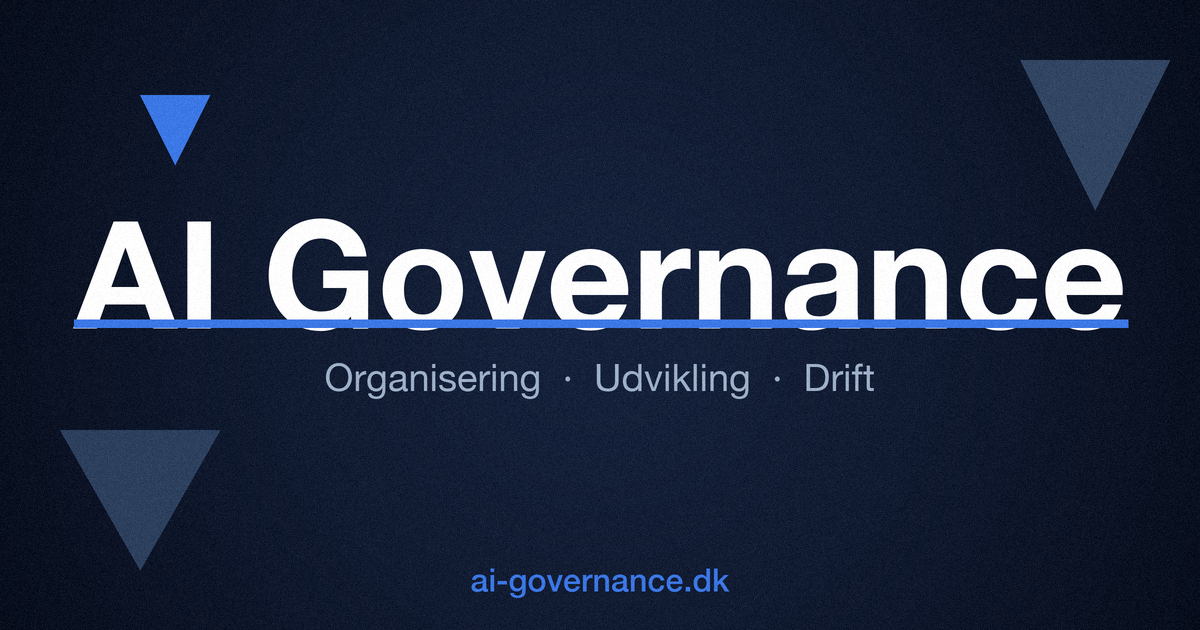
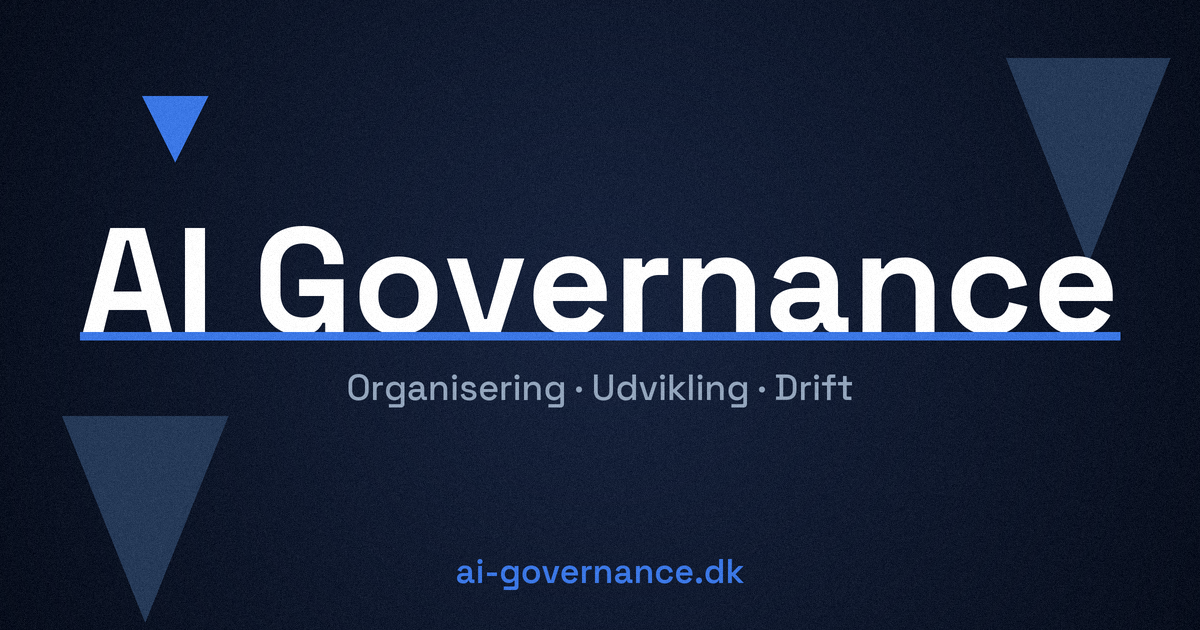
Redesign og-image: consistent Space Grotesk layout, rule no longer covers letters
The governance/sikkerhed og-images had the full-width accent rule cutting
through the title letters — the titles weren't baseline-anchored like
compliance, so the fixed-position rule landed mid-letter. Regenerate all
three from one generator for a consistent, on-brand result:

- Space Grotesk Bold (the site display font), title left-aligned at x=80
  anchored to a fixed baseline → rule sits just under the text on every site
- radial gradient with baked-in luminance dither (JPEG-banding-proof, replaces
  the post-hoc og-dither.py which is now removed)
- centred subtitle + brand-colour domain, accent + slate corner triangles

- scripts/generate_og.py: self-contained, reproducible generator (downloads
  Space Grotesk to a local cache); replaces scripts/og-dither.py
- public/og-image.png: regenerated
- index.html: og:image + twitter:image bumped to ?v=3 for cache-bust

diff --git a/index.html b/index.html
@@ -16,14 +16,14 @@
     <meta property="og:url" content="https://ai-governance.dk/" />
     <meta property="og:title" content="AI Governance – Praktisk overblik til danske organisationer" />
     <meta property="og:description" content="Organisering, udvikling og drift af AI — med særlig vægt på agent- og skill-governance. NIST AI RMF, ISO 42001, EU AI Act." />
-    <meta property="og:image" content="https://ai-governance.dk/og-image.png?v=2" />
+    <meta property="og:image" content="https://ai-governance.dk/og-image.png?v=3" />
     <meta property="og:locale" content="da_DK" />
     <meta property="og:site_name" content="AI Governance" />
 
     <meta name="twitter:card" content="summary_large_image" />
     <meta name="twitter:title" content="AI Governance – Praktisk overblik til danske organisationer" />
     <meta name="twitter:description" content="Organisering, udvikling og drift af AI — med særlig vægt på agent- og skill-governance." />
-    <meta name="twitter:image" content="https://ai-governance.dk/og-image.png?v=2" />
+    <meta name="twitter:image" content="https://ai-governance.dk/og-image.png?v=3" />
 
     <script type="application/ld+json">
       {

diff --git a/scripts/generate_og.py b/scripts/generate_og.py
@@ -1,0 +1,128 @@
+#!/usr/bin/env python3
+"""Generate public/og-image.png for the onepager portfolio (consistent across sites).
+
+Layout (1200x630), reproduced identically for every site so they match:
+- radial dark gradient, dithered so it survives social-platform JPEG recompression
+  WITHOUT banding (smooth dark gradients otherwise read as "grainy" in LinkedIn previews)
+- Space Grotesk Bold title, LEFT-aligned at x=80, anchored to a fixed BASELINE so the
+  full-width accent rule sits just under the text on every site (NOT through the letters)
+- centred muted subtitle + centred brand-colour domain
+- decorative downward triangles: small accent (top-left) + two slate (top-right, bottom-left)
+
+Usage:  python3 scripts/generate_og.py [site-key]
+site-key defaults to this repo's site; one of {compliance, sikkerhed, governance}.
+Requires Pillow. Downloads Space Grotesk (OFL) to a local cache on first run.
+Re-run after editing title/subtitle/colour here.
+"""
+import os
+import sys
+import math
+import urllib.request
+from PIL import Image, ImageDraw, ImageFont, ImageChops
+
+# This repo's site (override via argv[1]):
+DEFAULT_SITE = "governance"
+
+FONT_URL = "https://github.com/google/fonts/raw/main/ofl/spacegrotesk/SpaceGrotesk%5Bwght%5D.ttf"
+FONT_CACHE = os.path.expanduser("~/.cache/onepager-og/SpaceGrotesk.ttf")
+
+W, H, SS = 1200, 630, 2
+MARGIN = 80
+BASELINE = 333
+RULE_TOP, RULE_BOT = 332, 340
+SUB_BASE, DOM_BASE = 400, 583
+WHITE = (255, 255, 255)
+SUBTITLE = (148, 166, 189)
+SLATE = (38, 58, 88)
+BG_CENTER, BG_EDGE = (23, 35, 61), (8, 14, 28)
+
+SITES = {
+    "compliance": dict(title="AI Compliance", accent=(41, 166, 136),
+                        subtitle="Praktisk overblik · EU AI Act · ISO 42001 · NIST",
+                        domain="ai-compliance.dk"),
+    "sikkerhed":  dict(title="AI Sikkerhed", accent=(245, 158, 11),
+                        subtitle="AI Risici · MIT AI Risk Repository · OWASP",
+                        domain="ai-sikkerhed.dk"),
+    "governance": dict(title="AI Governance", accent=(60, 120, 230),
+                        subtitle="Organisering · Udvikling · Drift",
+                        domain="ai-governance.dk"),
+}
+
+
+def font_path():
+    if not os.path.exists(FONT_CACHE):
+        os.makedirs(os.path.dirname(FONT_CACHE), exist_ok=True)
+        print("downloading Space Grotesk …")
+        urllib.request.urlretrieve(FONT_URL, FONT_CACHE)
+    return FONT_CACHE
+
+
+def load(fp, size, wght):
+    f = ImageFont.truetype(fp, size)
+    try:
+        f.set_variation_by_axes([wght])
+    except Exception:
+        pass
+    return f
+
+
+def lerp(a, b, t):
+    return tuple(round(a[i] + (b[i] - a[i]) * t) for i in range(3))
+
+
+def radial_bg(w, h):
+    gw, gh = w // 4, h // 4
+    g = Image.new("RGB", (gw, gh)); gp = g.load()
+    cx, cy = gw / 2, gh / 2; maxd = math.hypot(cx, cy)
+    for y in range(gh):
+        for x in range(gw):
+            d = min(1.0, (math.hypot(x - cx, y - cy) / maxd) ** 1.15)
+            gp[x, y] = lerp(BG_CENTER, BG_EDGE, d)
+    return g.resize((w, h), Image.BILINEAR)
+
+
+def tri(d, x0, y0, w, h, fill):
+    d.polygon([(x0, y0), (x0 + w, y0), (x0 + w / 2, y0 + h)], fill=fill)
+
+
+def fit_size(fp, text, target_w, hi=200):
+    lo, best = 40, 40
+    while lo <= hi:
+        mid = (lo + hi) // 2
+        if load(fp, mid, 700).getbbox(text)[2] <= target_w:
+            best, lo = mid, mid + 1
+        else:
+            hi = mid - 1
+    return best
+
+
+def main():
+    key = sys.argv[1] if len(sys.argv) > 1 else DEFAULT_SITE
+    s = SITES[key]; accent = s["accent"]
+    fp = font_path()
+
+    # One title size shared by all sites (the size that fits the widest title).
+    size = min(fit_size(fp, st["title"], W - 2 * MARGIN) for st in SITES.values())
+
+    img = radial_bg(W * SS, H * SS)
+    d = ImageDraw.Draw(img, "RGBA")
+    def S(v): return v * SS
+
+    tri(d, S(142), S(96), S(66), S(66), accent)
+    tri(d, S(1006), S(58), S(164), S(205), SLATE)
+    tri(d, S(62), S(416), S(166), S(206), SLATE)
+
+    d.text((S(MARGIN), S(BASELINE)), s["title"], font=load(fp, size * SS, 700), fill=WHITE, anchor="ls")
+    d.rectangle([S(MARGIN), S(RULE_TOP), S(W - MARGIN), S(RULE_BOT)], fill=accent)
+    d.text((S(W / 2), S(SUB_BASE)), s["subtitle"], font=load(fp, 36 * SS, 500), fill=SUBTITLE, anchor="ms")
+    d.text((S(W / 2), S(DOM_BASE)), s["domain"], font=load(fp, 34 * SS, 600), fill=accent, anchor="ms")
+
+    img = img.resize((W, H), Image.LANCZOS)
+    noise = Image.merge("RGB", [Image.effect_noise((W, H), 4)] * 3)
+    img = ImageChops.add(img.convert("RGB"), noise, 1.0, -128)
+    img.save("public/og-image.png", "PNG", optimize=True)
+    print(f"✓ {key} -> public/og-image.png (title size {size})")
+
+
+if __name__ == "__main__":
+    main()